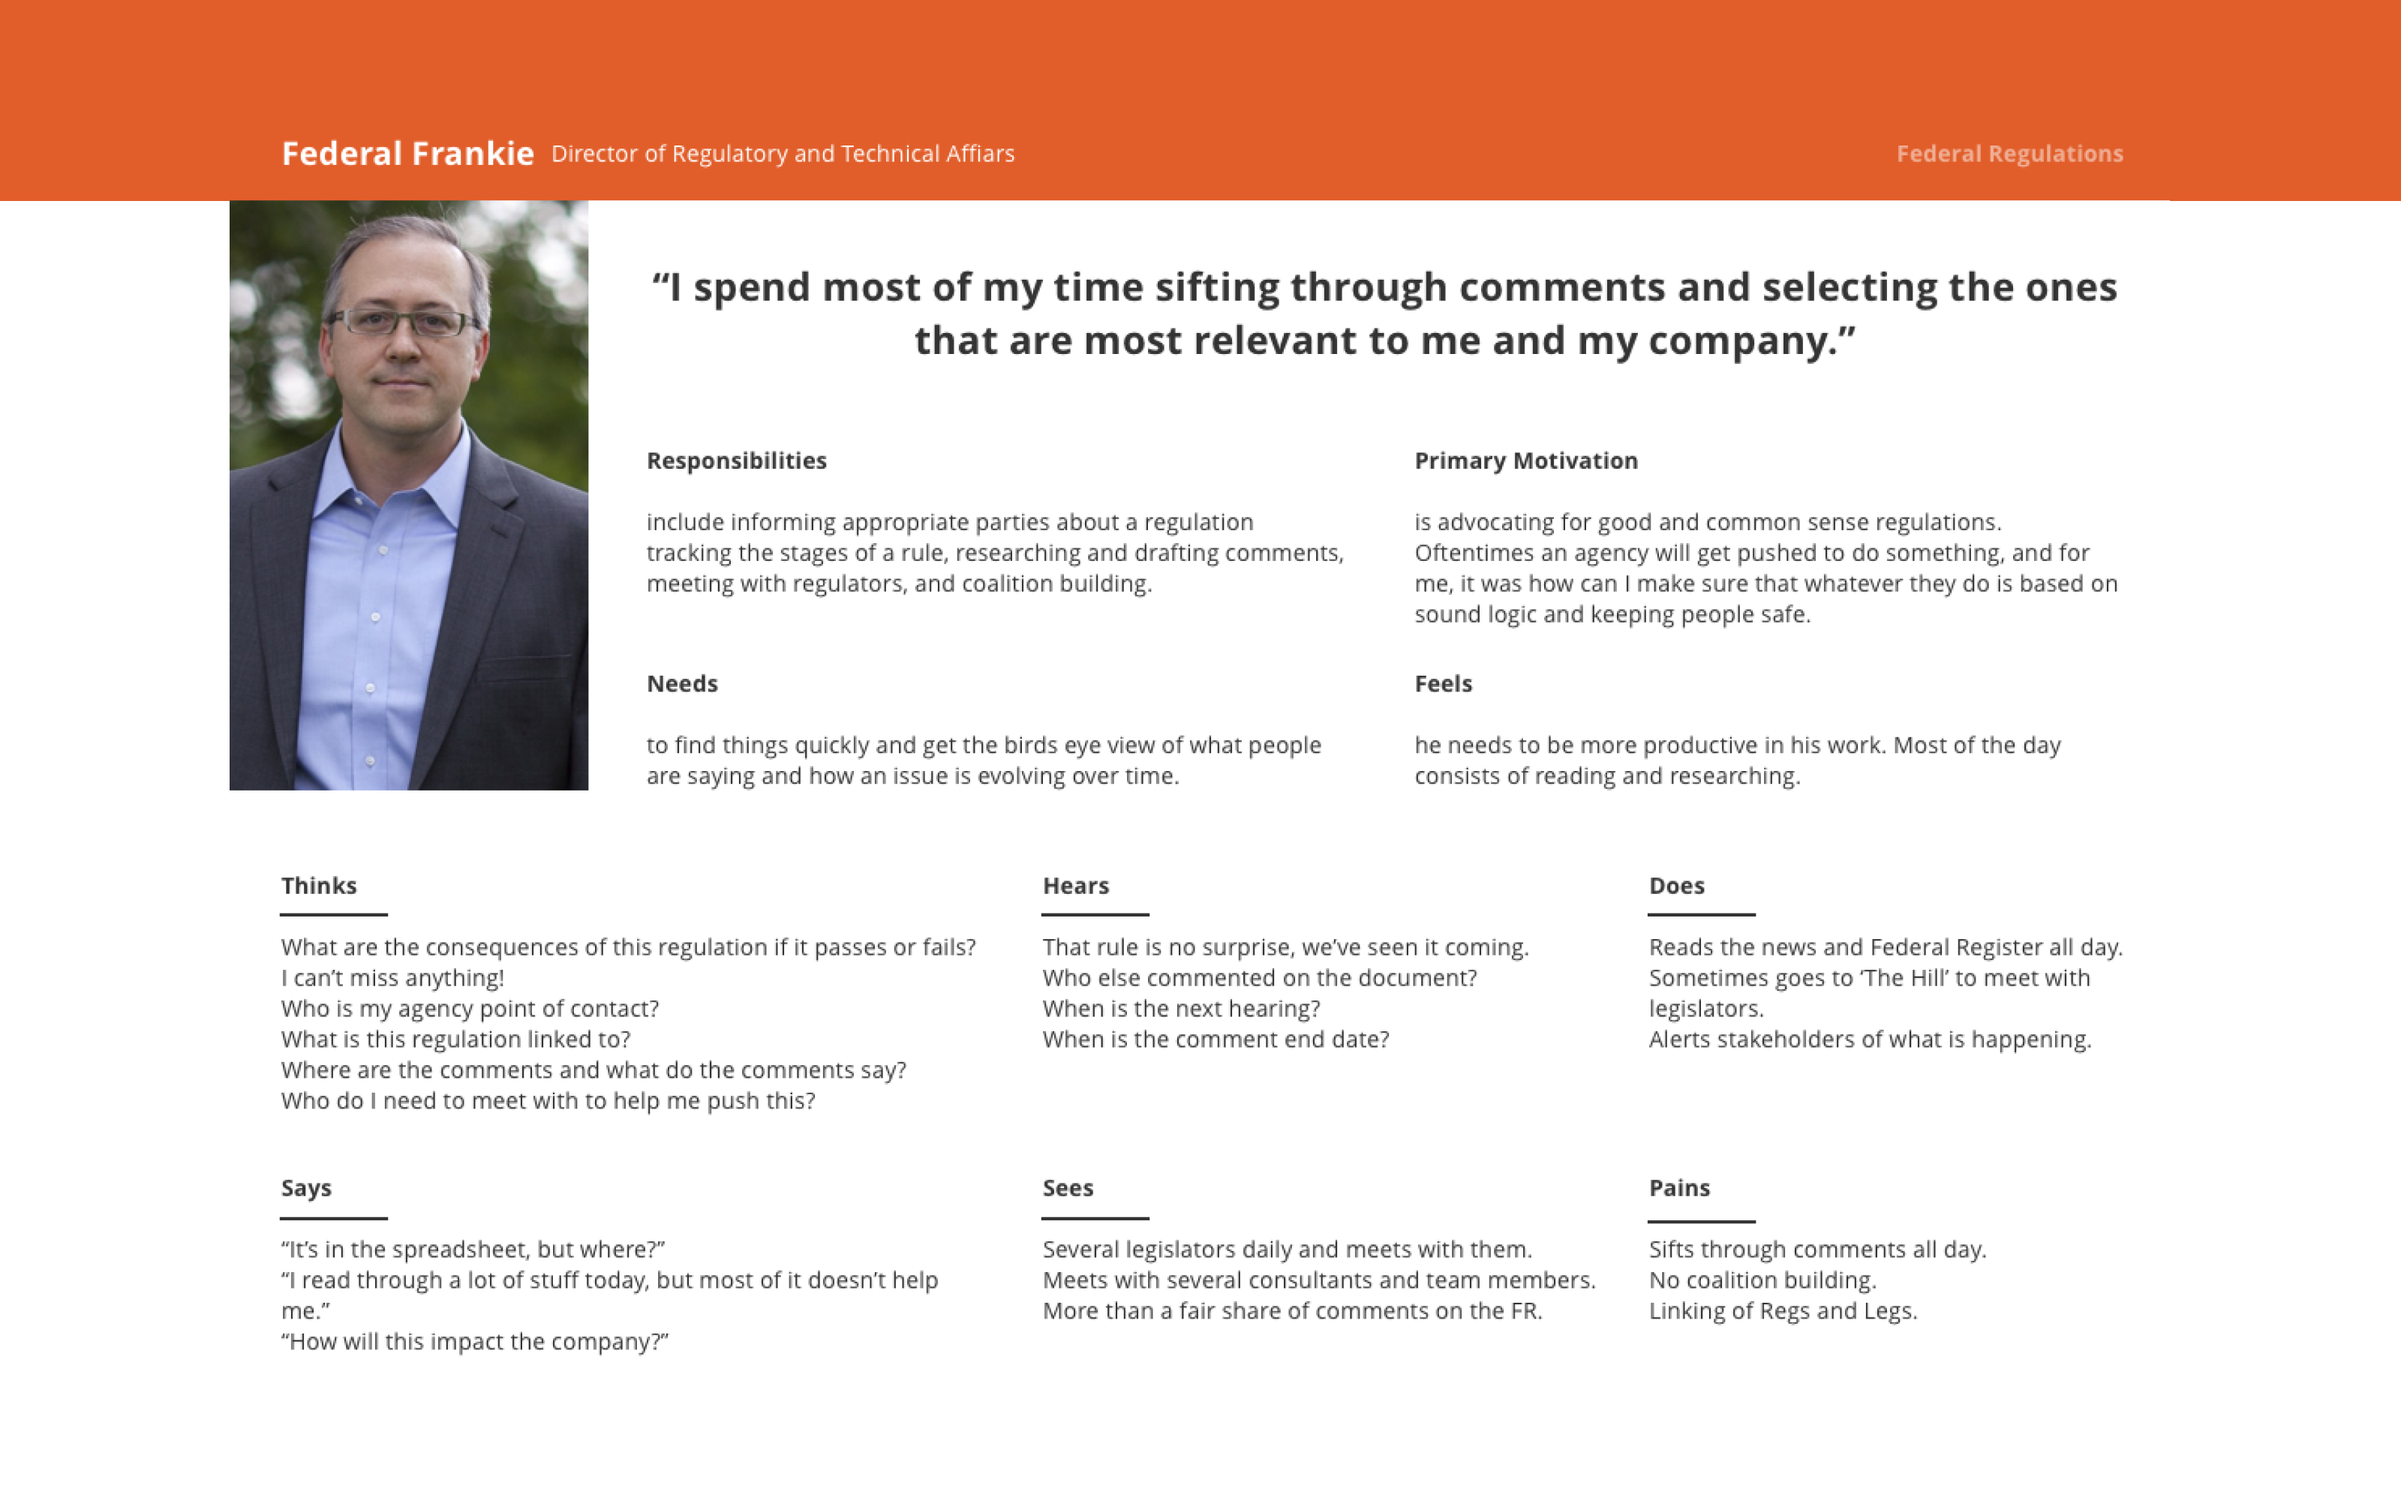
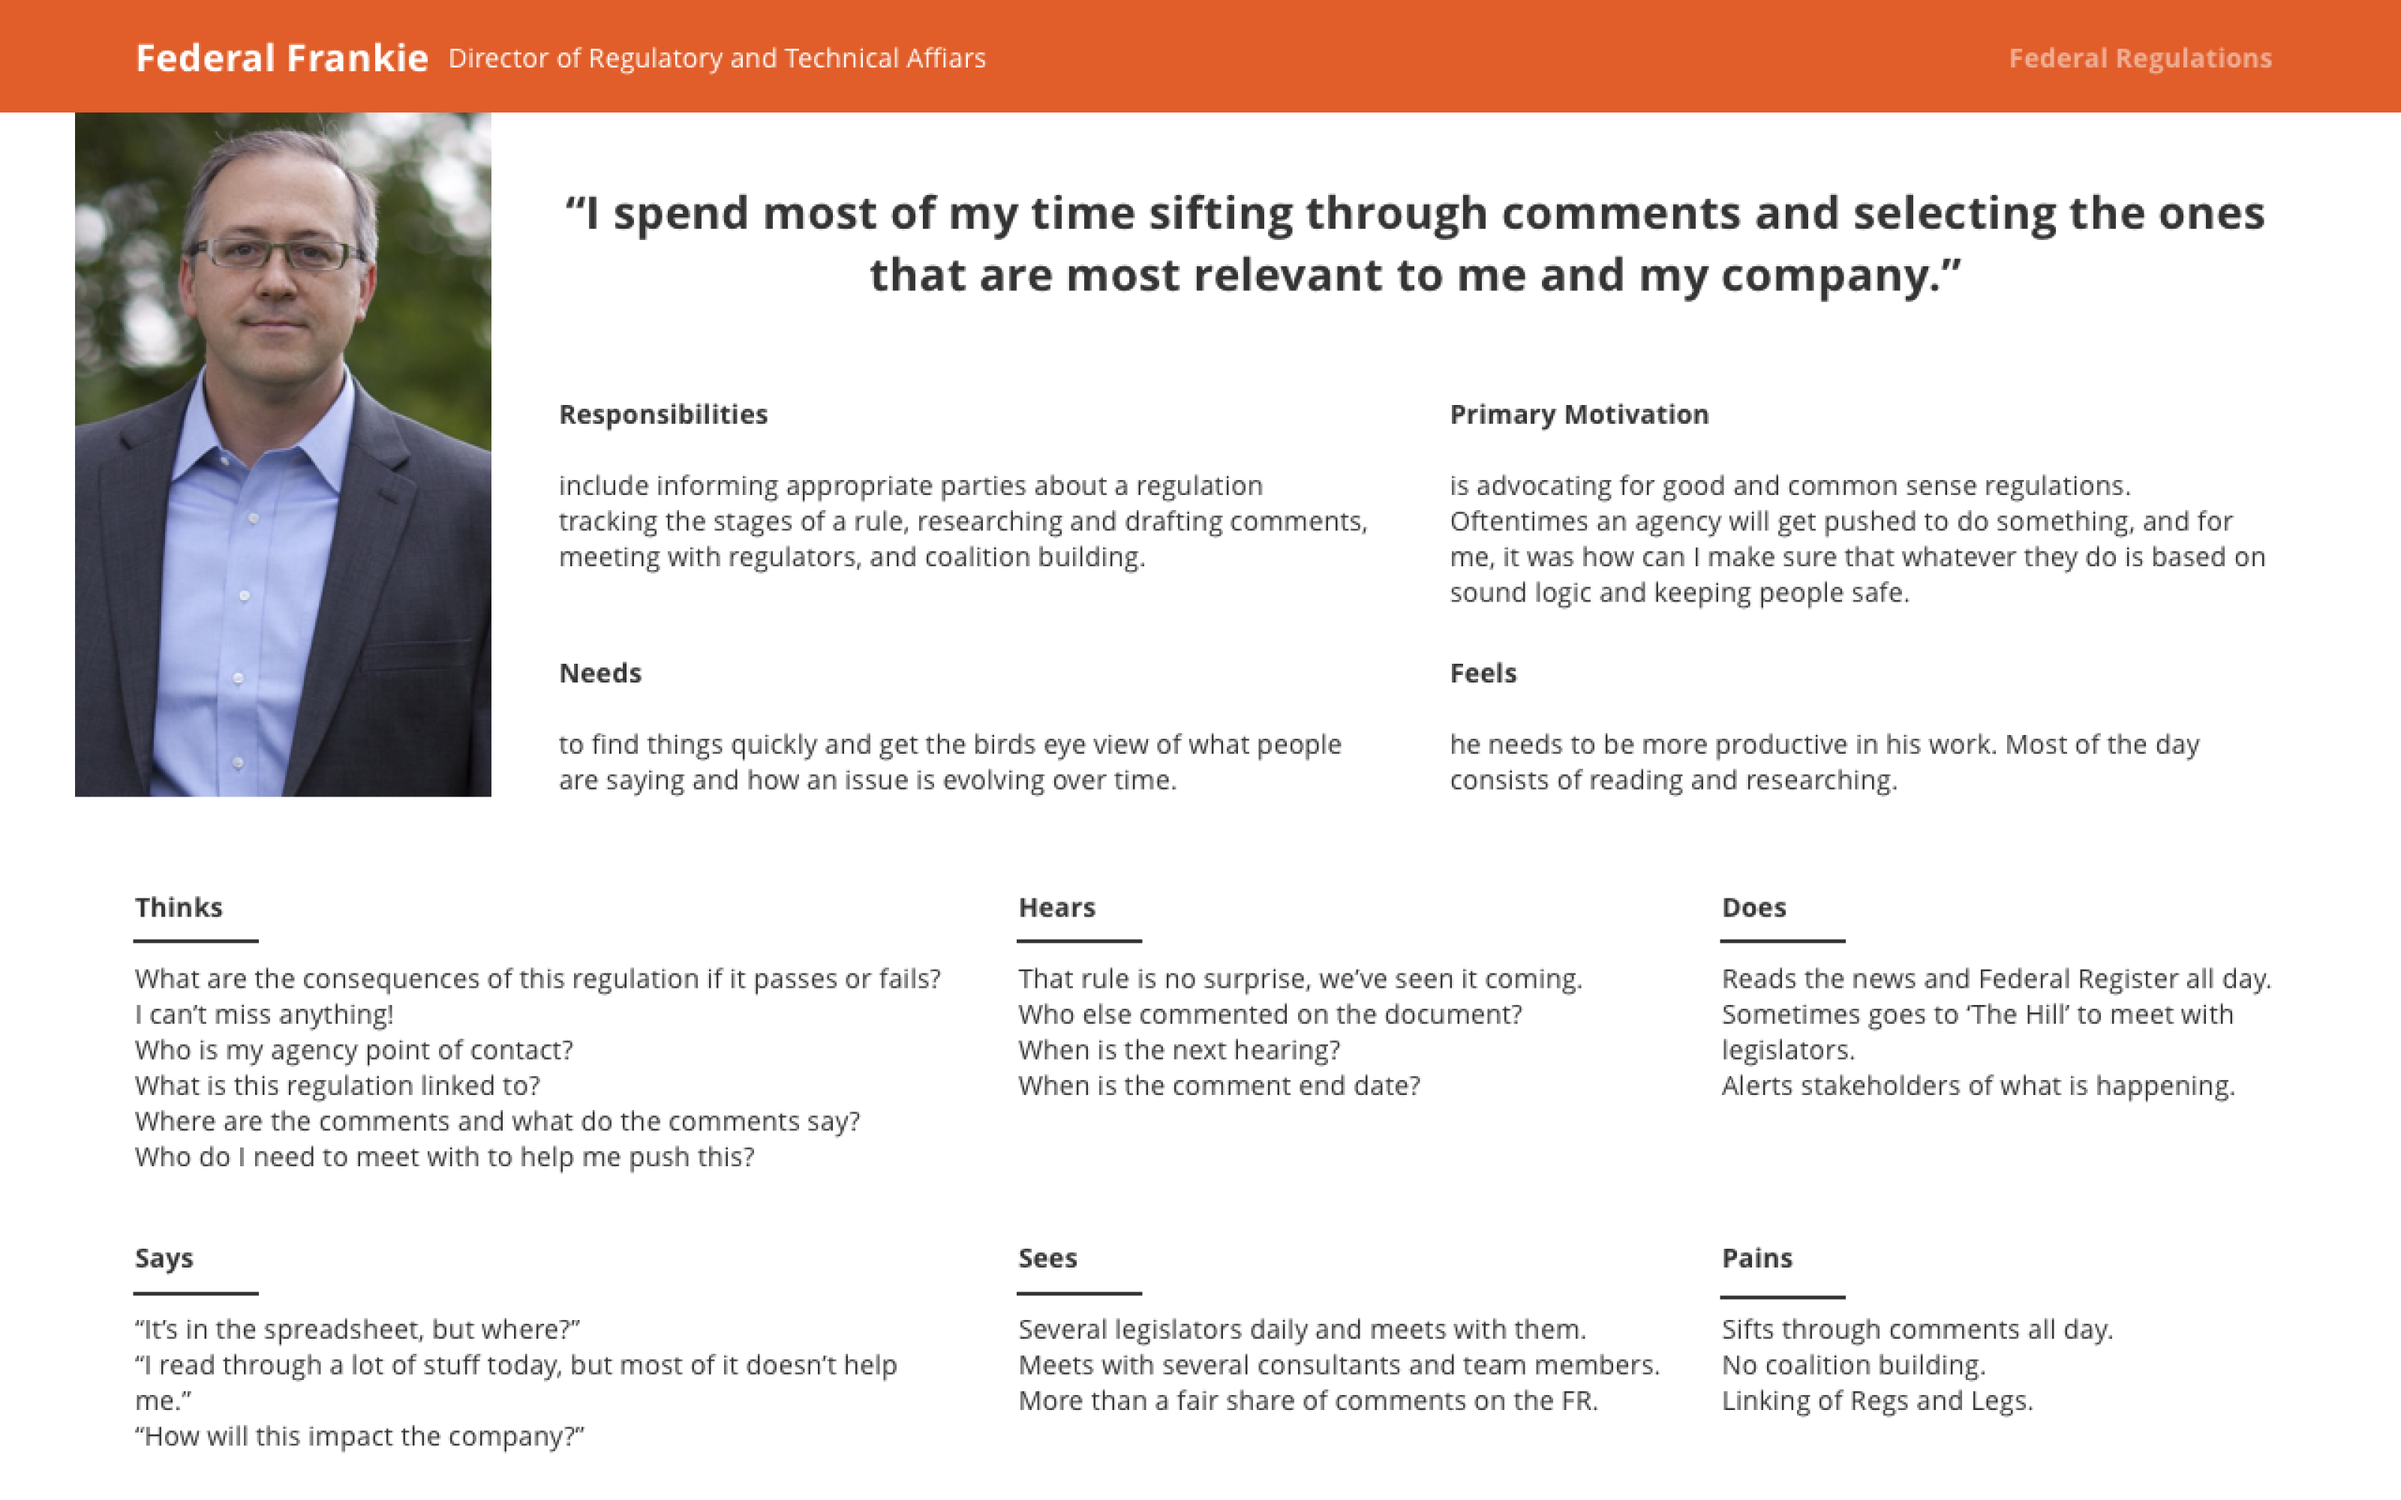
Fixed broken persona image

diff --git a/docs/fn-fedregs.html b/docs/fn-fedregs.html
@@ -56,7 +56,7 @@
             <img class="project-images" src="images/fnreg/003-fnreg-legacy.png">
             <p>After identifying those problems, we were focused on making it easier to read valuable comments and measure them against the others. Our goal was to help our users feel effective when submitting comments.</p>
             <p>The second challenge was reducing cognitive load and clarifying the information architecture for a simpler experience. Balancing these two requirements required several rounds of researching, iterating, and testing.</p>
-            <img class="project-images" src="images/fnreg/004-fnreg-persona">
+            <img class="project-images" src="images/fnreg/004-fnreg-persona.png">
             <img class="project-images" src="images/fnreg/005-fnreg-asis.png">
             <h3>Solutions —</h3>
             <p>To resolve our problems, we created two new features: comment themes and a document viewer.</p>
